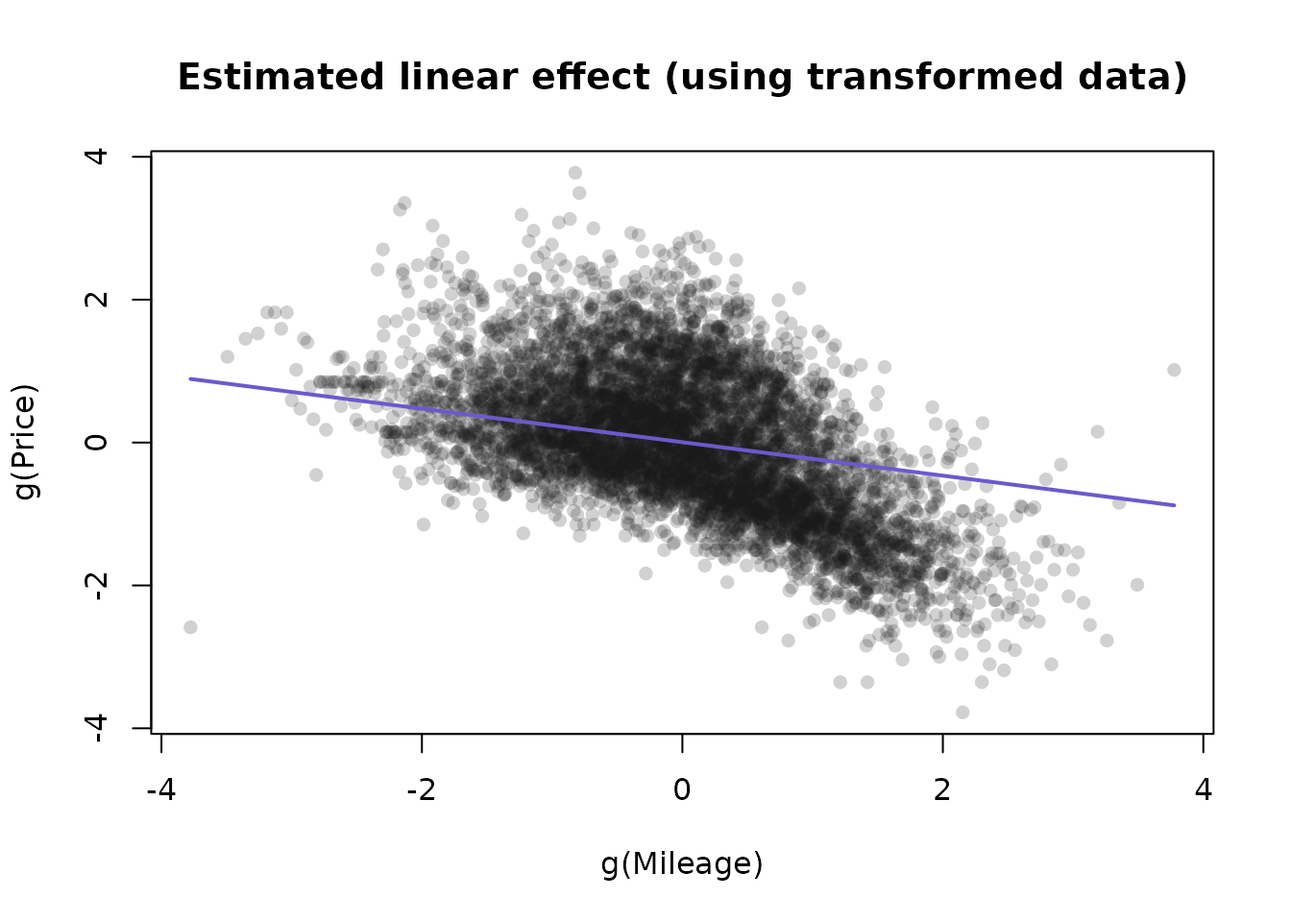
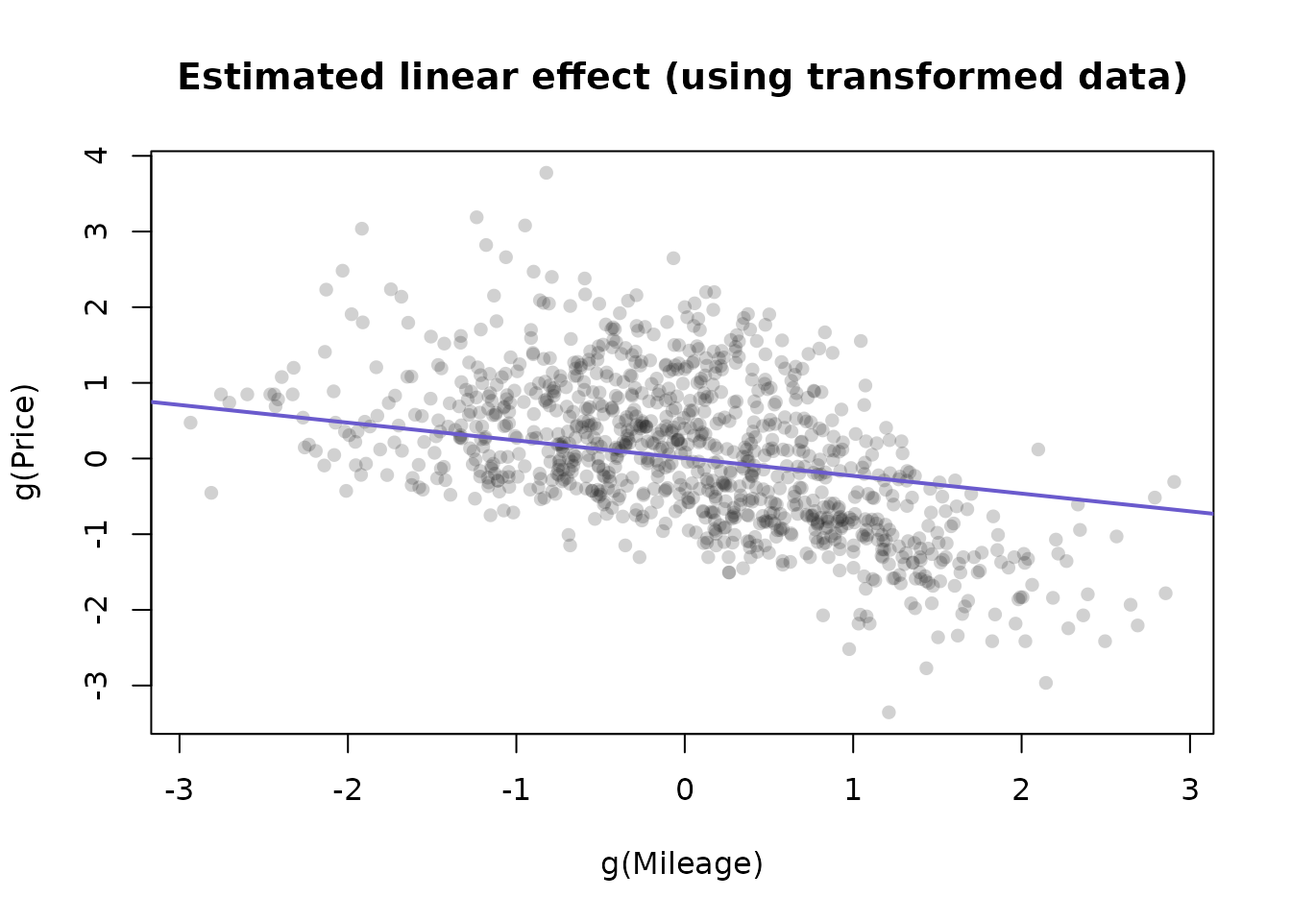
Built site for bestNormalize: 1.8.3.9000@30e8a6a

diff --git a/articles/bestNormalize.html b/articles/bestNormalize.html
@@ -84,7 +84,7 @@
       <h1 data-toc-skip>Using the bestNormalize Package</h1>
                         <h4 data-toc-skip class="author">Ryan A Peterson</h4>
             
-            <h4 data-toc-skip class="date">2023-02-15</h4>
+            <h4 data-toc-skip class="date">2023-03-08</h4>
       
       <small class="dont-index">Source: <a href="https://github.com/petersonR/bestNormalize/blob/HEAD/vignettes/bestNormalize.Rmd" class="external-link"><code>vignettes/bestNormalize.Rmd</code></a></small>
       <div class="hidden name"><code>bestNormalize.Rmd</code></div>
@@ -491,7 +491,7 @@ g(x) = \Phi ^{-1} \left(\frac{\text{rank} (x) - 1/2}{\text{length}(x) }\right)
 <span>     xlab <span class="op">=</span> <span class="st">"Years-old"</span>, ylab <span class="op">=</span> <span class="st">"g(Years-old)"</span><span class="op">)</span></span></code></pre></div>
 <p><img src="bestNormalize_files/figure-html/hist_app2-1.png" width="672"></p>
 <p>Next, we will fit a linear model on the transformed values of each variable. The reverse-transformation will allow us to visualize how these variables work into the model on their original units.</p>
-<p>For the sake of illustration, we also plot the effects of a GAM model to see if there is a big difference. The GAM models seem to be more influenced by outliers than the fits to the transformed data.</p>
+<p>For the sake of illustration, we also plot the effects of a GAM model to see if there is a big difference. The GAM models seem to be more influenced by outliers than the fits to the transformed data. Only 1000 points are plotted to reduce plot memory footprint.</p>
 <div class="sourceCode" id="cb33"><pre class="downlit sourceCode r">
 <code class="sourceCode R"><span><span class="va">autotrader</span><span class="op">$</span><span class="va">price.t</span> <span class="op">&lt;-</span> <span class="va">priceBN</span><span class="op">$</span><span class="va">x.t</span></span>
 <span><span class="va">autotrader</span><span class="op">$</span><span class="va">mileage.t</span> <span class="op">&lt;-</span> <span class="va">mileageBN</span><span class="op">$</span><span class="va">x.t</span></span>
@@ -522,11 +522,12 @@ g(x) = \Phi ^{-1} \left(\frac{\text{rank} (x) - 1/2}{\text{length}(x) }\right)
 <div class="sourceCode" id="cb35"><pre class="downlit sourceCode r">
 <code class="sourceCode R"><span><span class="va">miles.t</span> <span class="op">&lt;-</span> <span class="fu"><a href="https://rdrr.io/r/stats/predict.html" class="external-link">predict</a></span><span class="op">(</span><span class="va">mileageBN</span>, newdata <span class="op">=</span> <span class="va">mileage.xx</span><span class="op">)</span></span>
 <span><span class="va">c1</span> <span class="op">&lt;-</span> <span class="fu"><a href="https://rdrr.io/r/stats/coef.html" class="external-link">coef</a></span><span class="op">(</span><span class="va">fit4</span><span class="op">)</span><span class="op">[</span><span class="st">"mileage.t"</span><span class="op">]</span></span>
+<span><span class="va">plot_idx</span> <span class="op">&lt;-</span> <span class="fu"><a href="https://rdrr.io/r/base/sample.html" class="external-link">sample</a></span><span class="op">(</span><span class="fl">1</span><span class="op">:</span><span class="fu"><a href="https://rdrr.io/r/base/nrow.html" class="external-link">nrow</a></span><span class="op">(</span><span class="va">autotrader</span><span class="op">)</span>, size <span class="op">=</span> <span class="fl">1000</span><span class="op">)</span></span>
 <span></span>
 <span><span class="fu"><a href="https://rdrr.io/r/graphics/par.html" class="external-link">par</a></span><span class="op">(</span>mfrow <span class="op">=</span> <span class="fu"><a href="https://rdrr.io/r/base/c.html" class="external-link">c</a></span><span class="op">(</span><span class="fl">1</span>, <span class="fl">1</span><span class="op">)</span><span class="op">)</span></span>
 <span><span class="fu"><a href="https://rdrr.io/r/graphics/plot.default.html" class="external-link">plot</a></span><span class="op">(</span></span>
-<span>    <span class="va">mileageBN</span><span class="op">$</span><span class="va">x.t</span>,</span>
-<span>    <span class="va">priceBN</span><span class="op">$</span><span class="va">x.t</span>,</span>
+<span>    <span class="va">mileageBN</span><span class="op">$</span><span class="va">x.t</span><span class="op">[</span><span class="va">plot_idx</span><span class="op">]</span>,</span>
+<span>    <span class="va">priceBN</span><span class="op">$</span><span class="va">x.t</span><span class="op">[</span><span class="va">plot_idx</span><span class="op">]</span>,</span>
 <span>    pch <span class="op">=</span> <span class="fl">16</span>,</span>
 <span>    col <span class="op">=</span> <span class="fu"><a href="https://rdrr.io/r/grDevices/gray.html" class="external-link">grey</a></span><span class="op">(</span><span class="fl">.1</span>, alpha <span class="op">=</span> <span class="fl">.2</span><span class="op">)</span>,</span>
 <span>    main <span class="op">=</span> <span class="st">"Estimated linear effect (using transformed data)"</span>,</span>
@@ -541,8 +542,8 @@ g(x) = \Phi ^{-1} \left(\frac{\text{rank} (x) - 1/2}{\text{length}(x) }\right)
 <div class="sourceCode" id="cb36"><pre class="downlit sourceCode r">
 <code class="sourceCode R"><span><span class="co">## Mileage effect</span></span>
 <span><span class="fu"><a href="https://rdrr.io/r/graphics/plot.default.html" class="external-link">plot</a></span><span class="op">(</span></span>
-<span>  <span class="va">autotrader</span><span class="op">$</span><span class="va">mileage</span>,</span>
-<span>  <span class="va">autotrader</span><span class="op">$</span><span class="va">price</span>,</span>
+<span>  <span class="va">autotrader</span><span class="op">$</span><span class="va">mileage</span><span class="op">[</span><span class="va">plot_idx</span><span class="op">]</span>,</span>
+<span>  <span class="va">autotrader</span><span class="op">$</span><span class="va">price</span><span class="op">[</span><span class="va">plot_idx</span><span class="op">]</span>,</span>
 <span>  pch <span class="op">=</span> <span class="fl">16</span>,</span>
 <span>  col <span class="op">=</span> <span class="fu"><a href="https://rdrr.io/r/grDevices/gray.html" class="external-link">grey</a></span><span class="op">(</span><span class="fl">.1</span>, alpha <span class="op">=</span> <span class="fl">.2</span><span class="op">)</span>,</span>
 <span>  main <span class="op">=</span> <span class="st">"Mileage effect (re-transformed to original unit)"</span>,</span>
@@ -576,8 +577,8 @@ g(x) = \Phi ^{-1} \left(\frac{\text{rank} (x) - 1/2}{\text{length}(x) }\right)
 <span><span class="va">c2</span> <span class="op">&lt;-</span> <span class="fu"><a href="https://rdrr.io/r/stats/coef.html" class="external-link">coef</a></span><span class="op">(</span><span class="va">fit4</span><span class="op">)</span><span class="op">[</span><span class="st">"yearsold.t"</span><span class="op">]</span></span>
 <span></span>
 <span><span class="fu"><a href="https://rdrr.io/r/graphics/plot.default.html" class="external-link">plot</a></span><span class="op">(</span></span>
-<span>    <span class="fu"><a href="https://rdrr.io/r/base/jitter.html" class="external-link">jitter</a></span><span class="op">(</span><span class="va">autotrader</span><span class="op">$</span><span class="va">yearsold</span>, <span class="fl">1.5</span><span class="op">)</span>,</span>
-<span>    <span class="va">autotrader</span><span class="op">$</span><span class="va">price</span>,</span>
+<span>    <span class="fu"><a href="https://rdrr.io/r/base/jitter.html" class="external-link">jitter</a></span><span class="op">(</span><span class="va">autotrader</span><span class="op">$</span><span class="va">yearsold</span><span class="op">[</span><span class="va">plot_idx</span><span class="op">]</span>, <span class="fl">1.5</span><span class="op">)</span>,</span>
+<span>    <span class="va">autotrader</span><span class="op">$</span><span class="va">price</span><span class="op">[</span><span class="va">plot_idx</span><span class="op">]</span>,</span>
 <span>    pch <span class="op">=</span> <span class="fl">16</span>,</span>
 <span>    col <span class="op">=</span> <span class="fu"><a href="https://rdrr.io/r/grDevices/gray.html" class="external-link">grey</a></span><span class="op">(</span><span class="fl">.1</span>, alpha <span class="op">=</span> <span class="fl">.2</span><span class="op">)</span>, </span>
 <span>    main <span class="op">=</span> <span class="st">"Years old effect (re-transformed to original unit)"</span>,</span>

diff --git a/reference/binarize.html b/reference/binarize.html
@@ -152,32 +152,29 @@ Note that the transformation is not one-to-one, in contrast to the other
     <div class="sourceCode"><pre class="sourceCode r"><code><span class="r-in"><span><span class="va">x</span> <span class="op">&lt;-</span> <span class="fu"><a href="https://rdrr.io/r/stats/GammaDist.html" class="external-link">rgamma</a></span><span class="op">(</span><span class="fl">100</span>, <span class="fl">1</span>, <span class="fl">1</span><span class="op">)</span></span></span>
 <span class="r-in"><span><span class="va">binarize_obj</span> <span class="op">&lt;-</span> <span class="fu">binarize</span><span class="op">(</span><span class="va">x</span><span class="op">)</span></span></span>
 <span class="r-in"><span><span class="op">(</span><span class="va">p</span> <span class="op">&lt;-</span> <span class="fu"><a href="https://rdrr.io/r/stats/predict.html" class="external-link">predict</a></span><span class="op">(</span><span class="va">binarize_obj</span><span class="op">)</span><span class="op">)</span></span></span>
-<span class="r-out co"><span class="r-pr">#&gt;</span>   [1] 1 0 0 1 0 1 1 1 1 1 0 0 1 0 0 0 0 0 1 1 1 1 1 1 0 0 1 0 0 0 1 1 0 1 0 1 1</span>
-<span class="r-out co"><span class="r-pr">#&gt;</span>  [38] 0 0 0 1 1 0 1 1 0 1 1 0 0 0 1 0 0 1 0 0 1 0 1 0 0 0 0 0 1 0 1 1 1 0 0 1 0</span>
-<span class="r-out co"><span class="r-pr">#&gt;</span>  [75] 1 1 0 0 1 1 0 1 1 1 1 0 1 0 0 1 0 0 1 1 0 1 0 1 0 1</span>
+<span class="r-out co"><span class="r-pr">#&gt;</span>   [1] 1 0 1 0 0 1 0 1 1 0 1 0 0 1 0 1 0 1 0 1 0 1 0 1 0 0 0 1 1 0 0 1 0 0 0 0 1</span>
+<span class="r-out co"><span class="r-pr">#&gt;</span>  [38] 0 1 0 1 1 0 0 1 1 1 0 0 1 0 0 0 1 0 1 0 1 1 0 0 1 1 1 1 0 1 1 0 0 1 1 1 1</span>
+<span class="r-out co"><span class="r-pr">#&gt;</span>  [75] 1 0 1 0 1 1 0 0 1 1 0 1 0 0 1 0 0 0 0 1 1 0 0 1 1 1</span>
 <span class="r-in"><span></span></span>
 <span class="r-in"><span><span class="fu"><a href="https://rdrr.io/r/stats/predict.html" class="external-link">predict</a></span><span class="op">(</span><span class="va">binarize_obj</span>, newdata <span class="op">=</span> <span class="va">p</span>, inverse <span class="op">=</span> <span class="cn">TRUE</span><span class="op">)</span></span></span>
-<span class="r-out co"><span class="r-pr">#&gt;</span>   [1] &gt;= 0.7770544 &lt; 0.7770544  &lt; 0.7770544  &gt;= 0.7770544 &lt; 0.7770544 </span>
-<span class="r-out co"><span class="r-pr">#&gt;</span>   [6] &gt;= 0.7770544 &gt;= 0.7770544 &gt;= 0.7770544 &gt;= 0.7770544 &gt;= 0.7770544</span>
-<span class="r-out co"><span class="r-pr">#&gt;</span>  [11] &lt; 0.7770544  &lt; 0.7770544  &gt;= 0.7770544 &lt; 0.7770544  &lt; 0.7770544 </span>
-<span class="r-out co"><span class="r-pr">#&gt;</span>  [16] &lt; 0.7770544  &lt; 0.7770544  &lt; 0.7770544  &gt;= 0.7770544 &gt;= 0.7770544</span>
-<span class="r-out co"><span class="r-pr">#&gt;</span>  [21] &gt;= 0.7770544 &gt;= 0.7770544 &gt;= 0.7770544 &gt;= 0.7770544 &lt; 0.7770544 </span>
-<span class="r-out co"><span class="r-pr">#&gt;</span>  [26] &lt; 0.7770544  &gt;= 0.7770544 &lt; 0.7770544  &lt; 0.7770544  &lt; 0.7770544 </span>
-<span class="r-out co"><span class="r-pr">#&gt;</span>  [31] &gt;= 0.7770544 &gt;= 0.7770544 &lt; 0.7770544  &gt;= 0.7770544 &lt; 0.7770544 </span>
-<span class="r-out co"><span class="r-pr">#&gt;</span>  [36] &gt;= 0.7770544 &gt;= 0.7770544 &lt; 0.7770544  &lt; 0.7770544  &lt; 0.7770544 </span>
-<span class="r-out co"><span class="r-pr">#&gt;</span>  [41] &gt;= 0.7770544 &gt;= 0.7770544 &lt; 0.7770544  &gt;= 0.7770544 &gt;= 0.7770544</span>
-<span class="r-out co"><span class="r-pr">#&gt;</span>  [46] &lt; 0.7770544  &gt;= 0.7770544 &gt;= 0.7770544 &lt; 0.7770544  &lt; 0.7770544 </span>
-<span class="r-out co"><span class="r-pr">#&gt;</span>  [51] &lt; 0.7770544  &gt;= 0.7770544 &lt; 0.7770544  &lt; 0.7770544  &gt;= 0.7770544</span>
-<span class="r-out co"><span class="r-pr">#&gt;</span>  [56] &lt; 0.7770544  &lt; 0.7770544  &gt;= 0.7770544 &lt; 0.7770544  &gt;= 0.7770544</span>
-<span class="r-out co"><span class="r-pr">#&gt;</span>  [61] &lt; 0.7770544  &lt; 0.7770544  &lt; 0.7770544  &lt; 0.7770544  &lt; 0.7770544 </span>
-<span class="r-out co"><span class="r-pr">#&gt;</span>  [66] &gt;= 0.7770544 &lt; 0.7770544  &gt;= 0.7770544 &gt;= 0.7770544 &gt;= 0.7770544</span>
-<span class="r-out co"><span class="r-pr">#&gt;</span>  [71] &lt; 0.7770544  &lt; 0.7770544  &gt;= 0.7770544 &lt; 0.7770544  &gt;= 0.7770544</span>
-<span class="r-out co"><span class="r-pr">#&gt;</span>  [76] &gt;= 0.7770544 &lt; 0.7770544  &lt; 0.7770544  &gt;= 0.7770544 &gt;= 0.7770544</span>
-<span class="r-out co"><span class="r-pr">#&gt;</span>  [81] &lt; 0.7770544  &gt;= 0.7770544 &gt;= 0.7770544 &gt;= 0.7770544 &gt;= 0.7770544</span>
-<span class="r-out co"><span class="r-pr">#&gt;</span>  [86] &lt; 0.7770544  &gt;= 0.7770544 &lt; 0.7770544  &lt; 0.7770544  &gt;= 0.7770544</span>
-<span class="r-out co"><span class="r-pr">#&gt;</span>  [91] &lt; 0.7770544  &lt; 0.7770544  &gt;= 0.7770544 &gt;= 0.7770544 &lt; 0.7770544 </span>
-<span class="r-out co"><span class="r-pr">#&gt;</span>  [96] &gt;= 0.7770544 &lt; 0.7770544  &gt;= 0.7770544 &lt; 0.7770544  &gt;= 0.7770544</span>
-<span class="r-out co"><span class="r-pr">#&gt;</span> Levels: &lt; 0.7770544 &gt;= 0.7770544</span>
+<span class="r-out co"><span class="r-pr">#&gt;</span>   [1] &gt;= 0.726431 &lt; 0.726431  &gt;= 0.726431 &lt; 0.726431  &lt; 0.726431  &gt;= 0.726431</span>
+<span class="r-out co"><span class="r-pr">#&gt;</span>   [7] &lt; 0.726431  &gt;= 0.726431 &gt;= 0.726431 &lt; 0.726431  &gt;= 0.726431 &lt; 0.726431 </span>
+<span class="r-out co"><span class="r-pr">#&gt;</span>  [13] &lt; 0.726431  &gt;= 0.726431 &lt; 0.726431  &gt;= 0.726431 &lt; 0.726431  &gt;= 0.726431</span>
+<span class="r-out co"><span class="r-pr">#&gt;</span>  [19] &lt; 0.726431  &gt;= 0.726431 &lt; 0.726431  &gt;= 0.726431 &lt; 0.726431  &gt;= 0.726431</span>
+<span class="r-out co"><span class="r-pr">#&gt;</span>  [25] &lt; 0.726431  &lt; 0.726431  &lt; 0.726431  &gt;= 0.726431 &gt;= 0.726431 &lt; 0.726431 </span>
+<span class="r-out co"><span class="r-pr">#&gt;</span>  [31] &lt; 0.726431  &gt;= 0.726431 &lt; 0.726431  &lt; 0.726431  &lt; 0.726431  &lt; 0.726431 </span>
+<span class="r-out co"><span class="r-pr">#&gt;</span>  [37] &gt;= 0.726431 &lt; 0.726431  &gt;= 0.726431 &lt; 0.726431  &gt;= 0.726431 &gt;= 0.726431</span>
+<span class="r-out co"><span class="r-pr">#&gt;</span>  [43] &lt; 0.726431  &lt; 0.726431  &gt;= 0.726431 &gt;= 0.726431 &gt;= 0.726431 &lt; 0.726431 </span>
+<span class="r-out co"><span class="r-pr">#&gt;</span>  [49] &lt; 0.726431  &gt;= 0.726431 &lt; 0.726431  &lt; 0.726431  &lt; 0.726431  &gt;= 0.726431</span>
+<span class="r-out co"><span class="r-pr">#&gt;</span>  [55] &lt; 0.726431  &gt;= 0.726431 &lt; 0.726431  &gt;= 0.726431 &gt;= 0.726431 &lt; 0.726431 </span>
+<span class="r-out co"><span class="r-pr">#&gt;</span>  [61] &lt; 0.726431  &gt;= 0.726431 &gt;= 0.726431 &gt;= 0.726431 &gt;= 0.726431 &lt; 0.726431 </span>
+<span class="r-out co"><span class="r-pr">#&gt;</span>  [67] &gt;= 0.726431 &gt;= 0.726431 &lt; 0.726431  &lt; 0.726431  &gt;= 0.726431 &gt;= 0.726431</span>
+<span class="r-out co"><span class="r-pr">#&gt;</span>  [73] &gt;= 0.726431 &gt;= 0.726431 &gt;= 0.726431 &lt; 0.726431  &gt;= 0.726431 &lt; 0.726431 </span>
+<span class="r-out co"><span class="r-pr">#&gt;</span>  [79] &gt;= 0.726431 &gt;= 0.726431 &lt; 0.726431  &lt; 0.726431  &gt;= 0.726431 &gt;= 0.726431</span>
+<span class="r-out co"><span class="r-pr">#&gt;</span>  [85] &lt; 0.726431  &gt;= 0.726431 &lt; 0.726431  &lt; 0.726431  &gt;= 0.726431 &lt; 0.726431 </span>
+<span class="r-out co"><span class="r-pr">#&gt;</span>  [91] &lt; 0.726431  &lt; 0.726431  &lt; 0.726431  &gt;= 0.726431 &gt;= 0.726431 &lt; 0.726431 </span>
+<span class="r-out co"><span class="r-pr">#&gt;</span>  [97] &lt; 0.726431  &gt;= 0.726431 &gt;= 0.726431 &gt;= 0.726431</span>
+<span class="r-out co"><span class="r-pr">#&gt;</span> Levels: &lt; 0.726431 &gt;= 0.726431</span>
 </code></pre></div>
     </div>
   </div>

diff --git a/reference/bestNormalize.html b/reference/bestNormalize.html
@@ -99,7 +99,7 @@
 <span><span class="fu"><a href="https://rdrr.io/r/base/print.html" class="external-link">print</a></span><span class="op">(</span><span class="va">x</span>, <span class="va">...</span><span class="op">)</span></span>
 <span></span>
 <span><span class="co"># S3 method for bestNormalize</span></span>
-<span><span class="fu">tidy</span><span class="op">(</span><span class="va">x</span><span class="op">)</span></span></code></pre></div>
+<span><span class="fu">tidy</span><span class="op">(</span><span class="va">x</span>, <span class="va">...</span><span class="op">)</span></span></code></pre></div>
     </div>
 
     <div id="arguments">
@@ -179,7 +179,7 @@ predict methods (see details)</p></dd>
 
 
 <dt>...</dt>
-<dd><p>additional arguments.</p></dd>
+<dd><p>not used</p></dd>
 
 
 <dt>object</dt>
@@ -304,22 +304,22 @@ predict methods (see details)</p></dd>
 <span class="r-in"><span><span class="va">BN_obj</span></span></span>
 <span class="r-out co"><span class="r-pr">#&gt;</span> Best Normalizing transformation with 100 Observations</span>
 <span class="r-out co"><span class="r-pr">#&gt;</span>  Estimated Normality Statistics (Pearson P / df, lower =&gt; more normal):</span>
-<span class="r-out co"><span class="r-pr">#&gt;</span>  - arcsinh(x): 3.078</span>
-<span class="r-out co"><span class="r-pr">#&gt;</span>  - Box-Cox: 0.27</span>
-<span class="r-out co"><span class="r-pr">#&gt;</span>  - Center+scale: 7.966</span>
-<span class="r-out co"><span class="r-pr">#&gt;</span>  - Double Reversed Log_b(x+a): 15.896</span>
-<span class="r-out co"><span class="r-pr">#&gt;</span>  - Exp(x): 33.706</span>
-<span class="r-out co"><span class="r-pr">#&gt;</span>  - Log_b(x+a): 0.374</span>
-<span class="r-out co"><span class="r-pr">#&gt;</span>  - sqrt(x + a): 1.778</span>
-<span class="r-out co"><span class="r-pr">#&gt;</span>  - Yeo-Johnson: 1.024</span>
+<span class="r-out co"><span class="r-pr">#&gt;</span>  - arcsinh(x): 4.456</span>
+<span class="r-out co"><span class="r-pr">#&gt;</span>  - Box-Cox: 1.258</span>
+<span class="r-out co"><span class="r-pr">#&gt;</span>  - Center+scale: 9.266</span>
+<span class="r-out co"><span class="r-pr">#&gt;</span>  - Double Reversed Log_b(x+a): 16.078</span>
+<span class="r-out co"><span class="r-pr">#&gt;</span>  - Exp(x): 86.746</span>
+<span class="r-out co"><span class="r-pr">#&gt;</span>  - Log_b(x+a): 1.674</span>
+<span class="r-out co"><span class="r-pr">#&gt;</span>  - sqrt(x + a): 1.856</span>
+<span class="r-out co"><span class="r-pr">#&gt;</span>  - Yeo-Johnson: 1.31</span>
 <span class="r-out co"><span class="r-pr">#&gt;</span> Estimation method: In-sample</span>
 <span class="r-out co"><span class="r-pr">#&gt;</span>  </span>
 <span class="r-out co"><span class="r-pr">#&gt;</span> Based off these, bestNormalize chose:</span>
 <span class="r-out co"><span class="r-pr">#&gt;</span> Standardized Box Cox Transformation with 100 nonmissing obs.:</span>
 <span class="r-out co"><span class="r-pr">#&gt;</span>  Estimated statistics:</span>
-<span class="r-out co"><span class="r-pr">#&gt;</span>  - lambda = 0.1488483 </span>
-<span class="r-out co"><span class="r-pr">#&gt;</span>  - mean (before standardization) = -0.505039 </span>
-<span class="r-out co"><span class="r-pr">#&gt;</span>  - sd (before standardization) = 0.9806716 </span>
+<span class="r-out co"><span class="r-pr">#&gt;</span>  - lambda = 0.1799415 </span>
+<span class="r-out co"><span class="r-pr">#&gt;</span>  - mean (before standardization) = -0.5837854 </span>
+<span class="r-out co"><span class="r-pr">#&gt;</span>  - sd (before standardization) = 1.095306 </span>
 <span class="r-in"><span><span class="va">p</span> <span class="op">&lt;-</span> <span class="fu"><a href="https://rdrr.io/r/stats/predict.html" class="external-link">predict</a></span><span class="op">(</span><span class="va">BN_obj</span><span class="op">)</span></span></span>
 <span class="r-in"><span><span class="va">x2</span> <span class="op">&lt;-</span> <span class="fu"><a href="https://rdrr.io/r/stats/predict.html" class="external-link">predict</a></span><span class="op">(</span><span class="va">BN_obj</span>, newdata <span class="op">=</span> <span class="va">p</span>, inverse <span class="op">=</span> <span class="cn">TRUE</span><span class="op">)</span></span></span>
 <span class="r-in"><span></span></span>

diff --git a/reference/step_best_normalize.html b/reference/step_best_normalize.html
@@ -196,15 +196,15 @@ not be evaluate for a transformation.</p></dd>
 <span class="r-out co"><span class="r-pr">#&gt;</span> <span style="color: #949494;"># A tibble: 1 × 4</span></span>
 <span class="r-out co"><span class="r-pr">#&gt;</span>   terms         chosen cv_info id                  </span>
 <span class="r-out co"><span class="r-pr">#&gt;</span>   <span style="color: #949494; font-style: italic;">&lt;chr&gt;</span>          <span style="color: #949494; font-style: italic;">&lt;dbl&gt;</span>   <span style="color: #949494; font-style: italic;">&lt;dbl&gt;</span> <span style="color: #949494; font-style: italic;">&lt;chr&gt;</span>               </span>
-<span class="r-out co"><span class="r-pr">#&gt;</span> <span style="color: #BCBCBC;">1</span> all_numeric()     <span style="color: #BB0000;">NA</span>      <span style="color: #BB0000;">NA</span> best_normalize_szQD9</span>
+<span class="r-out co"><span class="r-pr">#&gt;</span> <span style="color: #BCBCBC;">1</span> all_numeric()     <span style="color: #BB0000;">NA</span>      <span style="color: #BB0000;">NA</span> best_normalize_aivYL</span>
 <span class="r-in"><span><span class="fu"><a href="https://generics.r-lib.org/reference/tidy.html" class="external-link">tidy</a></span><span class="op">(</span><span class="va">bn_estimates</span>, number <span class="op">=</span> <span class="fl">1</span><span class="op">)</span></span></span>
 <span class="r-out co"><span class="r-pr">#&gt;</span> <span style="color: #949494;"># A tibble: 4 × 4</span></span>
 <span class="r-out co"><span class="r-pr">#&gt;</span>   terms        chosen_transform cv_info          id                  </span>
 <span class="r-out co"><span class="r-pr">#&gt;</span>   <span style="color: #949494; font-style: italic;">&lt;chr&gt;</span>        <span style="color: #949494; font-style: italic;">&lt;chr&gt;</span>            <span style="color: #949494; font-style: italic;">&lt;named list&gt;</span>     <span style="color: #949494; font-style: italic;">&lt;chr&gt;</span>               </span>
-<span class="r-out co"><span class="r-pr">#&gt;</span> <span style="color: #BCBCBC;">1</span> Sepal.Length sqrt_x           <span style="color: #949494;">&lt;tibble [9 × 4]&gt;</span> best_normalize_szQD9</span>
-<span class="r-out co"><span class="r-pr">#&gt;</span> <span style="color: #BCBCBC;">2</span> Sepal.Width  center_scale     <span style="color: #949494;">&lt;tibble [9 × 4]&gt;</span> best_normalize_szQD9</span>
-<span class="r-out co"><span class="r-pr">#&gt;</span> <span style="color: #BCBCBC;">3</span> Petal.Length orderNorm        <span style="color: #949494;">&lt;tibble [9 × 4]&gt;</span> best_normalize_szQD9</span>
-<span class="r-out co"><span class="r-pr">#&gt;</span> <span style="color: #BCBCBC;">4</span> Petal.Width  orderNorm        <span style="color: #949494;">&lt;tibble [9 × 4]&gt;</span> best_normalize_szQD9</span>
+<span class="r-out co"><span class="r-pr">#&gt;</span> <span style="color: #BCBCBC;">1</span> Sepal.Length arcsinh_x        <span style="color: #949494;">&lt;tibble [9 × 4]&gt;</span> best_normalize_aivYL</span>
+<span class="r-out co"><span class="r-pr">#&gt;</span> <span style="color: #BCBCBC;">2</span> Sepal.Width  center_scale     <span style="color: #949494;">&lt;tibble [9 × 4]&gt;</span> best_normalize_aivYL</span>
+<span class="r-out co"><span class="r-pr">#&gt;</span> <span style="color: #BCBCBC;">3</span> Petal.Length orderNorm        <span style="color: #949494;">&lt;tibble [9 × 4]&gt;</span> best_normalize_aivYL</span>
+<span class="r-out co"><span class="r-pr">#&gt;</span> <span style="color: #BCBCBC;">4</span> Petal.Width  orderNorm        <span style="color: #949494;">&lt;tibble [9 × 4]&gt;</span> best_normalize_aivYL</span>
 <span class="r-in"><span></span></span>
 </code></pre></div>
     </div>

diff --git a/reference/step_orderNorm.html b/reference/step_orderNorm.html
@@ -187,15 +187,15 @@ not be evaluate for a transformation.</p></dd>
 <span class="r-out co"><span class="r-pr">#&gt;</span> <span style="color: #949494;"># A tibble: 1 × 3</span></span>
 <span class="r-out co"><span class="r-pr">#&gt;</span>   terms         value id             </span>
 <span class="r-out co"><span class="r-pr">#&gt;</span>   <span style="color: #949494; font-style: italic;">&lt;chr&gt;</span>         <span style="color: #949494; font-style: italic;">&lt;dbl&gt;</span> <span style="color: #949494; font-style: italic;">&lt;chr&gt;</span>          </span>
-<span class="r-out co"><span class="r-pr">#&gt;</span> <span style="color: #BCBCBC;">1</span> all_numeric()    <span style="color: #BB0000;">NA</span> orderNorm_puc2z</span>
+<span class="r-out co"><span class="r-pr">#&gt;</span> <span style="color: #BCBCBC;">1</span> all_numeric()    <span style="color: #BB0000;">NA</span> orderNorm_WiXPs</span>
 <span class="r-in"><span><span class="fu"><a href="https://generics.r-lib.org/reference/tidy.html" class="external-link">tidy</a></span><span class="op">(</span><span class="va">orq_estimates</span>, number <span class="op">=</span> <span class="fl">1</span><span class="op">)</span></span></span>
 <span class="r-out co"><span class="r-pr">#&gt;</span> <span style="color: #949494;"># A tibble: 4 × 3</span></span>
 <span class="r-out co"><span class="r-pr">#&gt;</span>   terms        value        id             </span>
 <span class="r-out co"><span class="r-pr">#&gt;</span>   <span style="color: #949494; font-style: italic;">&lt;chr&gt;</span>        <span style="color: #949494; font-style: italic;">&lt;named list&gt;</span> <span style="color: #949494; font-style: italic;">&lt;chr&gt;</span>          </span>
-<span class="r-out co"><span class="r-pr">#&gt;</span> <span style="color: #BCBCBC;">1</span> Sepal.Length <span style="color: #949494;">&lt;orderNrm&gt;</span>   orderNorm_puc2z</span>
-<span class="r-out co"><span class="r-pr">#&gt;</span> <span style="color: #BCBCBC;">2</span> Sepal.Width  <span style="color: #949494;">&lt;orderNrm&gt;</span>   orderNorm_puc2z</span>
-<span class="r-out co"><span class="r-pr">#&gt;</span> <span style="color: #BCBCBC;">3</span> Petal.Length <span style="color: #949494;">&lt;orderNrm&gt;</span>   orderNorm_puc2z</span>
-<span class="r-out co"><span class="r-pr">#&gt;</span> <span style="color: #BCBCBC;">4</span> Petal.Width  <span style="color: #949494;">&lt;orderNrm&gt;</span>   orderNorm_puc2z</span>
+<span class="r-out co"><span class="r-pr">#&gt;</span> <span style="color: #BCBCBC;">1</span> Sepal.Length <span style="color: #949494;">&lt;orderNrm&gt;</span>   orderNorm_WiXPs</span>
+<span class="r-out co"><span class="r-pr">#&gt;</span> <span style="color: #BCBCBC;">2</span> Sepal.Width  <span style="color: #949494;">&lt;orderNrm&gt;</span>   orderNorm_WiXPs</span>
+<span class="r-out co"><span class="r-pr">#&gt;</span> <span style="color: #BCBCBC;">3</span> Petal.Length <span style="color: #949494;">&lt;orderNrm&gt;</span>   orderNorm_WiXPs</span>
+<span class="r-out co"><span class="r-pr">#&gt;</span> <span style="color: #BCBCBC;">4</span> Petal.Width  <span style="color: #949494;">&lt;orderNrm&gt;</span>   orderNorm_WiXPs</span>
 <span class="r-in"><span></span></span>
 <span class="r-in"><span></span></span>
 </code></pre></div>

diff --git a/reference/log_x.html b/reference/log_x.html
@@ -173,10 +173,10 @@ specified beforehand.</p>
 <span class="r-in"><span><span class="va">log_x_obj</span></span></span>
 <span class="r-out co"><span class="r-pr">#&gt;</span> Standardized Log_b(x + a) Transformation with 100 nonmissing obs.:</span>
 <span class="r-out co"><span class="r-pr">#&gt;</span>  Relevant statistics:</span>
-<span class="r-out co"><span class="r-pr">#&gt;</span>  - a = 0 </span>
+<span class="r-out co"><span class="r-pr">#&gt;</span>  - a = 0.0009478018 </span>
 <span class="r-out co"><span class="r-pr">#&gt;</span>  - b = 10 </span>
-<span class="r-out co"><span class="r-pr">#&gt;</span>  - mean (before standardization) = -0.3106783 </span>
-<span class="r-out co"><span class="r-pr">#&gt;</span>  - sd (before standardization) = 0.5401939 </span>
+<span class="r-out co"><span class="r-pr">#&gt;</span>  - mean (before standardization) = -0.2180922 </span>
+<span class="r-out co"><span class="r-pr">#&gt;</span>  - sd (before standardization) = 0.57096 </span>
 <span class="r-in"><span><span class="va">p</span> <span class="op">&lt;-</span> <span class="fu"><a href="https://rdrr.io/r/stats/predict.html" class="external-link">predict</a></span><span class="op">(</span><span class="va">log_x_obj</span><span class="op">)</span></span></span>
 <span class="r-in"><span><span class="va">x2</span> <span class="op">&lt;-</span> <span class="fu"><a href="https://rdrr.io/r/stats/predict.html" class="external-link">predict</a></span><span class="op">(</span><span class="va">log_x_obj</span>, newdata <span class="op">=</span> <span class="va">p</span>, inverse <span class="op">=</span> <span class="cn">TRUE</span><span class="op">)</span></span></span>
 <span class="r-in"><span></span></span>

diff --git a/reference/yeojohnson.html b/reference/yeojohnson.html
@@ -170,9 +170,9 @@ lambda parameter (lower, upper)</p></dd>
 <span class="r-in"><span><span class="va">yeojohnson_obj</span></span></span>
 <span class="r-out co"><span class="r-pr">#&gt;</span> Standardized Yeo-Johnson Transformation with 100 nonmissing obs.:</span>
 <span class="r-out co"><span class="r-pr">#&gt;</span>  Estimated statistics:</span>
-<span class="r-out co"><span class="r-pr">#&gt;</span>  - lambda = -0.7685337 </span>
-<span class="r-out co"><span class="r-pr">#&gt;</span>  - mean (before standardization) = 0.4121433 </span>
-<span class="r-out co"><span class="r-pr">#&gt;</span>  - sd (before standardization) = 0.2253635 </span>
+<span class="r-out co"><span class="r-pr">#&gt;</span>  - lambda = -0.6980786 </span>
+<span class="r-out co"><span class="r-pr">#&gt;</span>  - mean (before standardization) = 0.4552957 </span>
+<span class="r-out co"><span class="r-pr">#&gt;</span>  - sd (before standardization) = 0.2603985 </span>
 <span class="r-in"><span><span class="va">p</span> <span class="op">&lt;-</span> <span class="fu"><a href="https://rdrr.io/r/stats/predict.html" class="external-link">predict</a></span><span class="op">(</span><span class="va">yeojohnson_obj</span><span class="op">)</span></span></span>
 <span class="r-in"><span><span class="va">x2</span> <span class="op">&lt;-</span> <span class="fu"><a href="https://rdrr.io/r/stats/predict.html" class="external-link">predict</a></span><span class="op">(</span><span class="va">yeojohnson_obj</span>, newdata <span class="op">=</span> <span class="va">p</span>, inverse <span class="op">=</span> <span class="cn">TRUE</span><span class="op">)</span></span></span>
 <span class="r-in"><span></span></span>

diff --git a/reference/double_reverse_log.html b/reference/double_reverse_log.html
@@ -177,9 +177,9 @@ beforehand.</p>
 <span class="r-out co"><span class="r-pr">#&gt;</span>  Relevant statistics:</span>
 <span class="r-out co"><span class="r-pr">#&gt;</span>  - a = </span>
 <span class="r-out co"><span class="r-pr">#&gt;</span>  - b = 10 </span>
-<span class="r-out co"><span class="r-pr">#&gt;</span>  - max(x) = 4.953469 ; min(x) = -0.4378029 </span>
-<span class="r-out co"><span class="r-pr">#&gt;</span>  - mean (before standardization) = 0.1699734 </span>
-<span class="r-out co"><span class="r-pr">#&gt;</span>  - sd (before standardization) = 0.1751355 </span>
+<span class="r-out co"><span class="r-pr">#&gt;</span>  - max(x) = 3.435072 ; min(x) = -0.3066893 </span>
+<span class="r-out co"><span class="r-pr">#&gt;</span>  - mean (before standardization) = 0.1776554 </span>
+<span class="r-out co"><span class="r-pr">#&gt;</span>  - sd (before standardization) = 0.1812616 </span>
 <span class="r-in"><span><span class="va">p</span> <span class="op">&lt;-</span> <span class="fu"><a href="https://rdrr.io/r/stats/predict.html" class="external-link">predict</a></span><span class="op">(</span><span class="va">double_reverse_log_obj</span><span class="op">)</span></span></span>
 <span class="r-in"><span><span class="va">x2</span> <span class="op">&lt;-</span> <span class="fu"><a href="https://rdrr.io/r/stats/predict.html" class="external-link">predict</a></span><span class="op">(</span><span class="va">double_reverse_log_obj</span>, newdata <span class="op">=</span> <span class="va">p</span>, inverse <span class="op">=</span> <span class="cn">TRUE</span><span class="op">)</span></span></span>
 <span class="r-in"><span></span></span>

diff --git a/reference/boxcox.html b/reference/boxcox.html
@@ -165,9 +165,9 @@ data.</p>
 <span class="r-in"><span><span class="va">bc_obj</span></span></span>
 <span class="r-out co"><span class="r-pr">#&gt;</span> Standardized Box Cox Transformation with 100 nonmissing obs.:</span>
 <span class="r-out co"><span class="r-pr">#&gt;</span>  Estimated statistics:</span>
-<span class="r-out co"><span class="r-pr">#&gt;</span>  - lambda = 0.2361607 </span>
-<span class="r-out co"><span class="r-pr">#&gt;</span>  - mean (before standardization) = -0.4986876 </span>
-<span class="r-out co"><span class="r-pr">#&gt;</span>  - sd (before standardization) = 1.065548 </span>
+<span class="r-out co"><span class="r-pr">#&gt;</span>  - lambda = 0.2188525 </span>
+<span class="r-out co"><span class="r-pr">#&gt;</span>  - mean (before standardization) = -0.5489142 </span>
+<span class="r-out co"><span class="r-pr">#&gt;</span>  - sd (before standardization) = 1.080119 </span>
 <span class="r-in"><span><span class="va">p</span> <span class="op">&lt;-</span> <span class="fu"><a href="https://rdrr.io/r/stats/predict.html" class="external-link">predict</a></span><span class="op">(</span><span class="va">bc_obj</span><span class="op">)</span></span></span>
 <span class="r-in"><span><span class="va">x2</span> <span class="op">&lt;-</span> <span class="fu"><a href="https://rdrr.io/r/stats/predict.html" class="external-link">predict</a></span><span class="op">(</span><span class="va">bc_obj</span>, newdata <span class="op">=</span> <span class="va">p</span>, inverse <span class="op">=</span> <span class="cn">TRUE</span><span class="op">)</span></span></span>
 <span class="r-in"><span></span></span>

diff --git a/reference/arcsinh_x.html b/reference/arcsinh_x.html
@@ -149,8 +149,8 @@ and applied to new data via the <code>predict</code> function.</p>
 <span class="r-in"><span><span class="va">arcsinh_x_obj</span></span></span>
 <span class="r-out co"><span class="r-pr">#&gt;</span> Standardized asinh(x) Transformation with 100 nonmissing obs.:</span>
 <span class="r-out co"><span class="r-pr">#&gt;</span>  Relevant statistics:</span>
-<span class="r-out co"><span class="r-pr">#&gt;</span>  - mean (before standardization) = 0.7008024 </span>
-<span class="r-out co"><span class="r-pr">#&gt;</span>  - sd (before standardization) = 0.5181748 </span>
+<span class="r-out co"><span class="r-pr">#&gt;</span>  - mean (before standardization) = 0.7364299 </span>
+<span class="r-out co"><span class="r-pr">#&gt;</span>  - sd (before standardization) = 0.6156197 </span>
 <span class="r-in"><span><span class="va">p</span> <span class="op">&lt;-</span> <span class="fu"><a href="https://rdrr.io/r/stats/predict.html" class="external-link">predict</a></span><span class="op">(</span><span class="va">arcsinh_x_obj</span><span class="op">)</span></span></span>
 <span class="r-in"><span><span class="va">x2</span> <span class="op">&lt;-</span> <span class="fu"><a href="https://rdrr.io/r/stats/predict.html" class="external-link">predict</a></span><span class="op">(</span><span class="va">arcsinh_x_obj</span>, newdata <span class="op">=</span> <span class="va">p</span>, inverse <span class="op">=</span> <span class="cn">TRUE</span><span class="op">)</span></span></span>
 <span class="r-in"><span></span></span>

diff --git a/reference/sqrt_x.html b/reference/sqrt_x.html
@@ -156,8 +156,8 @@ scaled, such that the transformation attempts a standard normal</p></dd>
 <span class="r-out co"><span class="r-pr">#&gt;</span> Standardized sqrt(x + a) Transformation with 100 nonmissing obs.:</span>
 <span class="r-out co"><span class="r-pr">#&gt;</span>  Relevant statistics:</span>
 <span class="r-out co"><span class="r-pr">#&gt;</span>  - a = 0 </span>
-<span class="r-out co"><span class="r-pr">#&gt;</span>  - mean (before standardization) = 0.8800628 </span>
-<span class="r-out co"><span class="r-pr">#&gt;</span>  - sd (before standardization) = 0.4976721 </span>
+<span class="r-out co"><span class="r-pr">#&gt;</span>  - mean (before standardization) = 0.8889729 </span>
+<span class="r-out co"><span class="r-pr">#&gt;</span>  - sd (before standardization) = 0.4408934 </span>
 <span class="r-in"><span><span class="va">p</span> <span class="op">&lt;-</span> <span class="fu"><a href="https://rdrr.io/r/stats/predict.html" class="external-link">predict</a></span><span class="op">(</span><span class="va">sqrt_x_obj</span><span class="op">)</span></span></span>
 <span class="r-in"><span><span class="va">x2</span> <span class="op">&lt;-</span> <span class="fu"><a href="https://rdrr.io/r/stats/predict.html" class="external-link">predict</a></span><span class="op">(</span><span class="va">sqrt_x_obj</span>, newdata <span class="op">=</span> <span class="va">p</span>, inverse <span class="op">=</span> <span class="cn">TRUE</span><span class="op">)</span></span></span>
 <span class="r-in"><span></span></span>

diff --git a/reference/exp_x.html b/reference/exp_x.html
@@ -152,8 +152,8 @@ and applied to new data via the <code>predict</code> function.</p>
 <span class="r-in"><span><span class="va">exp_x_obj</span></span></span>
 <span class="r-out co"><span class="r-pr">#&gt;</span> Standardized exp(x) Transformation with 100 nonmissing obs.:</span>
 <span class="r-out co"><span class="r-pr">#&gt;</span>  Relevant statistics:</span>
-<span class="r-out co"><span class="r-pr">#&gt;</span>  - mean (before standardization) = 3.694124 </span>
-<span class="r-out co"><span class="r-pr">#&gt;</span>  - sd (before standardization) = 6.402657 </span>
+<span class="r-out co"><span class="r-pr">#&gt;</span>  - mean (before standardization) = 6.799266 </span>
+<span class="r-out co"><span class="r-pr">#&gt;</span>  - sd (before standardization) = 18.71139 </span>
 <span class="r-in"><span><span class="va">p</span> <span class="op">&lt;-</span> <span class="fu"><a href="https://rdrr.io/r/stats/predict.html" class="external-link">predict</a></span><span class="op">(</span><span class="va">exp_x_obj</span><span class="op">)</span></span></span>
 <span class="r-in"><span><span class="va">x2</span> <span class="op">&lt;-</span> <span class="fu"><a href="https://rdrr.io/r/stats/predict.html" class="external-link">predict</a></span><span class="op">(</span><span class="va">exp_x_obj</span>, newdata <span class="op">=</span> <span class="va">p</span>, inverse <span class="op">=</span> <span class="cn">TRUE</span><span class="op">)</span></span></span>
 <span class="r-in"><span></span></span>
